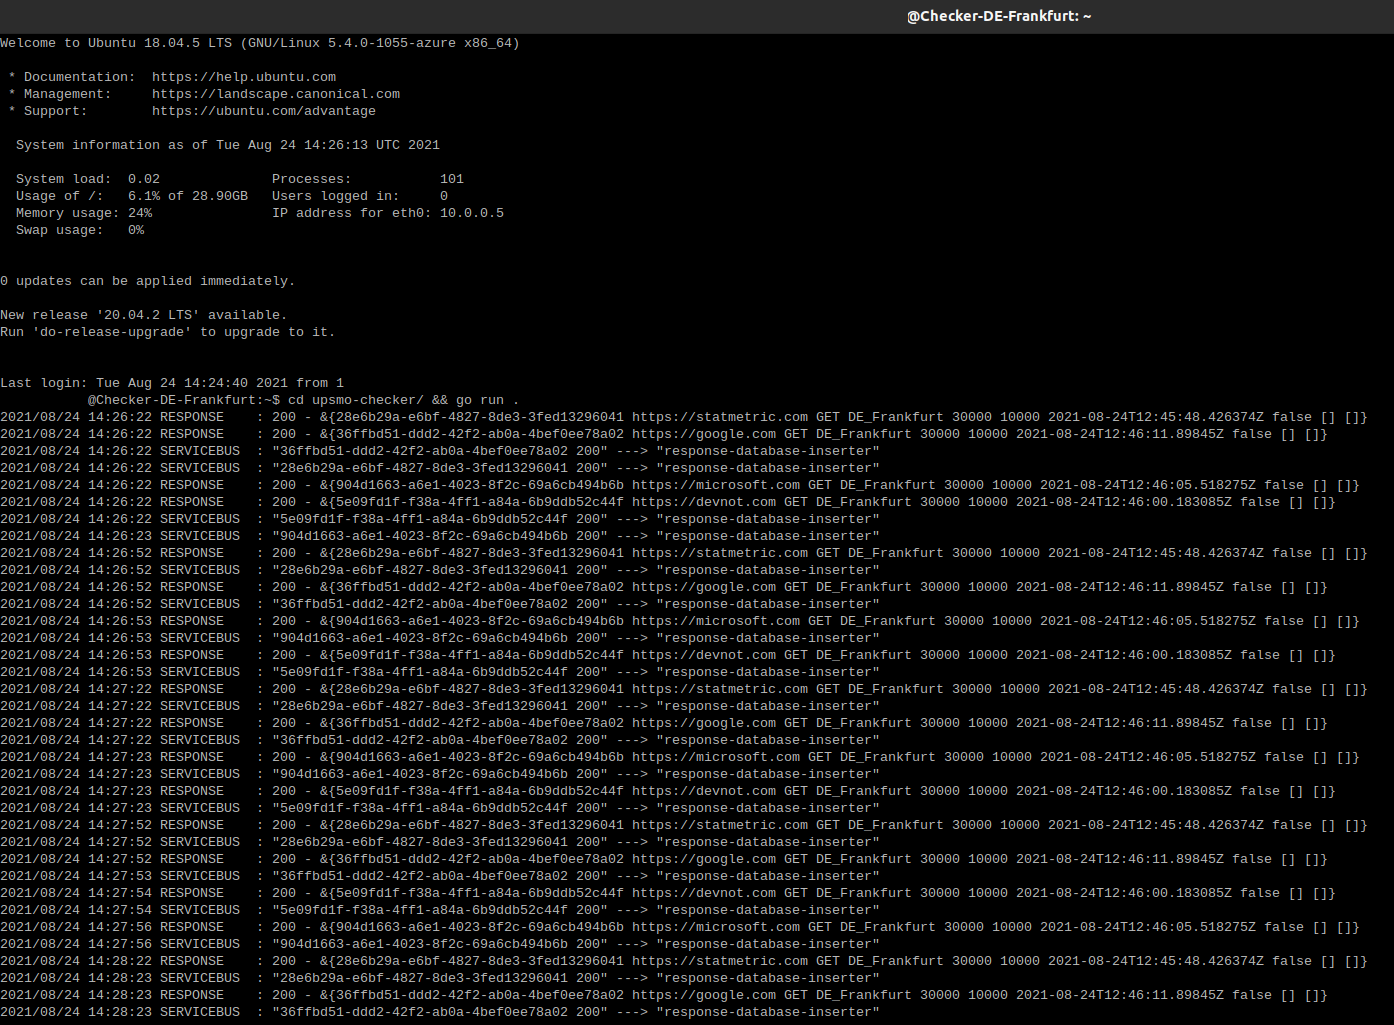
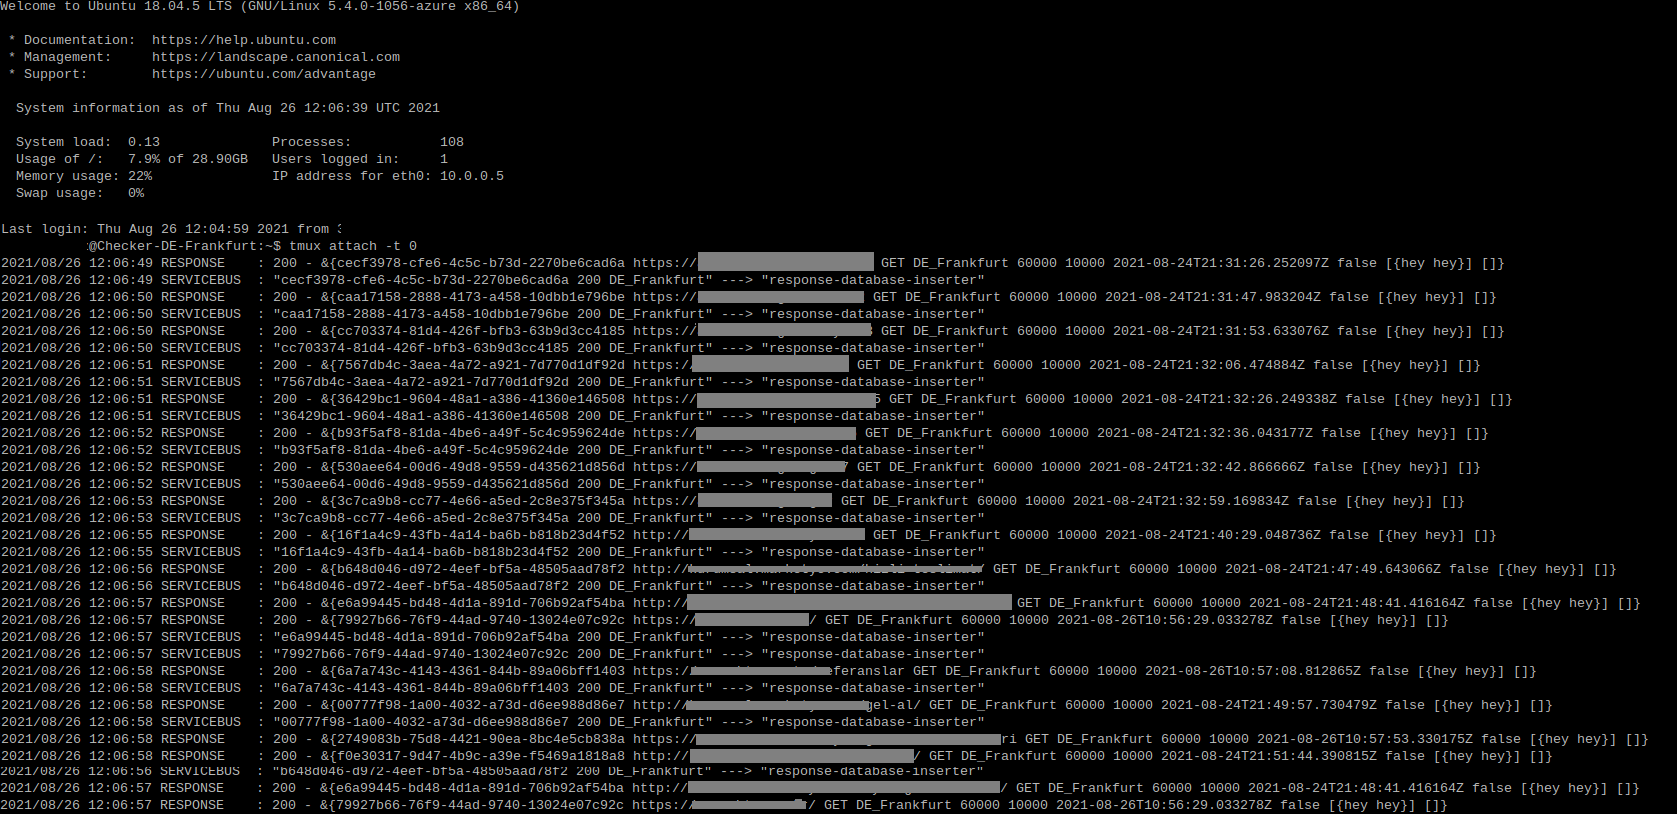
update readme.md and monitor.go: request user agent and headers

diff --git a/model/monitor.go b/model/monitor.go
@@ -6,6 +6,7 @@ import (
 	"log"
 	"net/http"
 	"net/url"
+	"os"
 	"time"
 
 	"github.com/halilkocaoz/upsmo-checker/storage"
@@ -47,6 +48,7 @@ func (m *Monitor) Process() {
 		resp, err := m.doRequest()
 		if err != nil {
 			go stream.SendToServiceBus("err-notifier", fmt.Sprintf("%s %v", m.ID, err))
+			log.Printf("ERROR		: %v\n%v", m, err)
 		} else {
 			resp.Body.Close()
 
@@ -85,6 +87,8 @@ func (m *Monitor) reGet() {
 	}
 }
 
+var userAgent string = fmt.Sprintf("UpsMo/v1.0 (REGION: %s, https://github.com/halilkocaoz/upsmo-checker)", os.Getenv("UPSMO_REGION"))
+
 // does http request and return result
 func (monitor *Monitor) doRequest() (*http.Response, error) {
 	client := http.Client{}
@@ -97,13 +101,10 @@ func (monitor *Monitor) doRequest() (*http.Response, error) {
 	request.URL = hostUrl
 	request.Method = monitor.Method
 	request.Header = make(http.Header)
-
-	for _, header := range monitor.Headers {
-		request.Header.Add(header.Key, header.Value)
-	}
+	request.Header.Set("User-Agent", userAgent)
 
 	if monitor.Method == "POST" && len(monitor.PostValues) > 0 {
-		request.Header.Add("Content-Type", "application/x-www-form-urlencoded")
+		request.Header.Set("Content-Type", "application/x-www-form-urlencoded")
 
 		form := url.Values{}
 		for _, postform := range monitor.PostValues {
@@ -111,8 +112,10 @@ func (monitor *Monitor) doRequest() (*http.Response, error) {
 		}
 		request.PostForm = form
 	}
+	for _, header := range monitor.Headers {
+		request.Header.Add(header.Key, header.Value)
+	}
 
-	request.Header.Set("User-Agent", fmt.Sprintf("UpsMo/v1.0 (REGION: %s, https://github.com/halilkocaoz/upsmo-checker)", monitor.Region))
 	return client.Do(request)
 }
 

diff --git a/README.md b/README.md
@@ -1,6 +1,6 @@
 # upsmo-checker
 
-It runs in different locations on the Azure virtual machines and checks uptime monitors by region and takes actions according to the HTTP response, such as sending messages to the Azure service bus.
+It runs in different locations on the Azure VMs and checks uptime monitors by region. Also, it takes actions according to the HTTP responses, such as sending messages to the Azure Service Bus.
 
 ## Prerequisites to run
 
@@ -18,9 +18,9 @@ Look [here](https://github.com/halilkocaoz/upsmo-server/blob/main/UpsMo.Common/M
 
 ## Related repositories
 
-* [upsmo-response-inserter](https://github.com/halilkocaoz/upsmo-response-inserter)
-* [upsmo-notifier](https://github.com/halilkocaoz/upsmo-notifier)
 * [upsmo-server](https://github.com/halilkocaoz/upsmo-server)
+* [upsmo-inserter](https://github.com/halilkocaoz/upsmo-inserter)
+* [upsmo-notifier](https://github.com/halilkocaoz/upsmo-notifier)
 
 ## Screenshot
 
